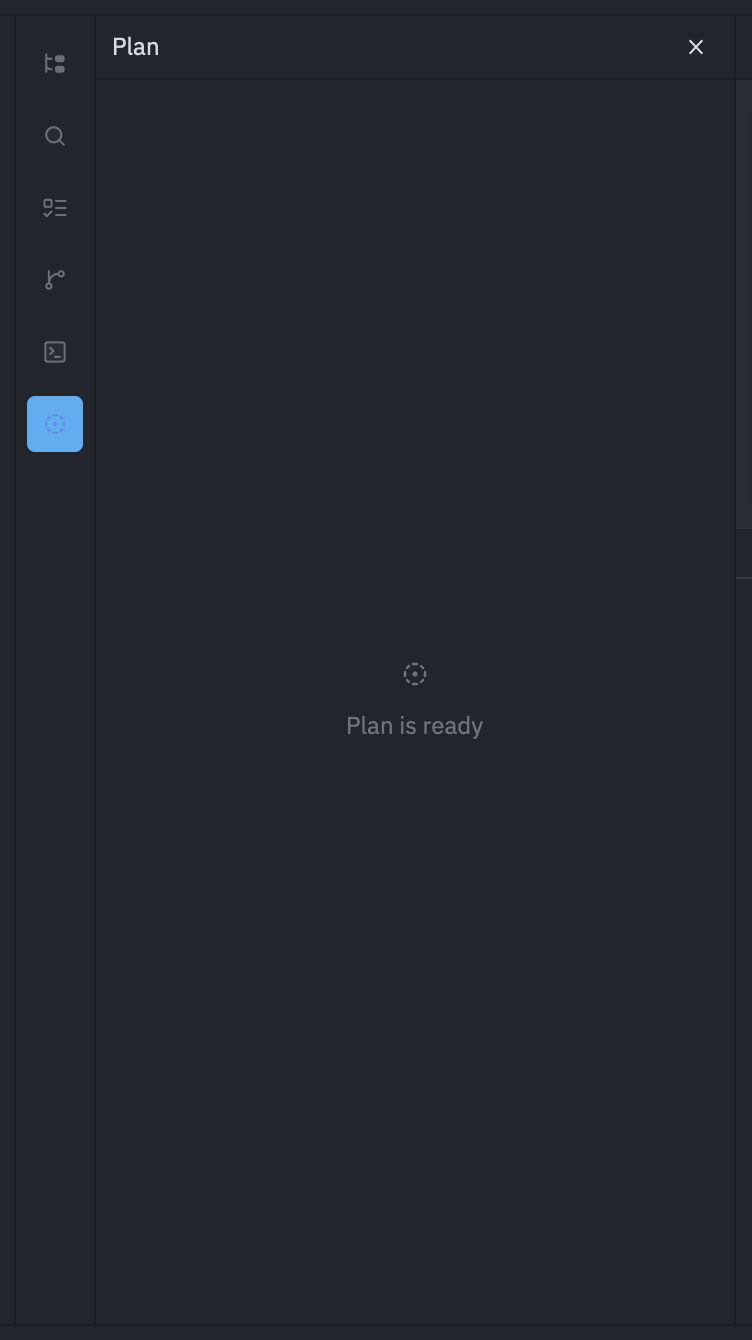
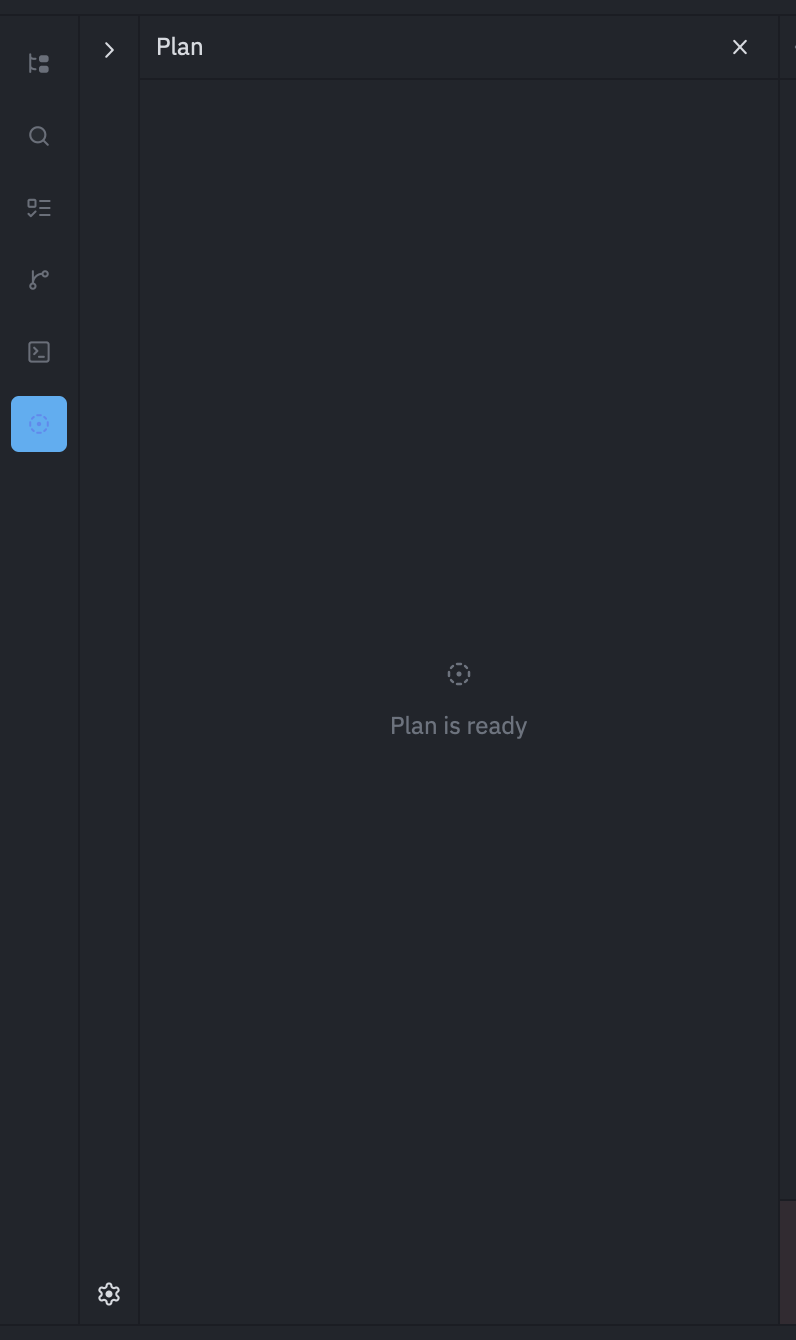
Put the activity rail on the window edge and the Omega label flush left
The workbench shell landed with the activity rail rendered between the
threads sidebar and the content column, an icon rail floating in the
middle of the window. Render it first so it hugs the far-left window
edge, with the threads sidebar directly beside it and the dock and
content after.

The sidebar header still reserved the macOS traffic-light safe area
from before OMEGA-DELTA-0157 installed the platform titlebar. The
titlebar spans the window above the header and owns that safe area, so
the reservation had become a wide blank strip in front of the Omega
label with no control in it. Drop it, along with the collapsed rail's
matching top offset, and amend the OMEGA-DELTA-0131 check to require
the padding stays gone.

Regenerate the Metal visual baselines for the workbench, identity,
front-door, route-pin, and executor-disclosure scenes. The Exo-lane
zero-base baselines (omega_zero_base_wide/narrow) need a live Exo
install and will pick up the new layout on the next Exo visual proof.

diff --git a/crates/agent_ui/src/agent_panel.rs b/crates/agent_ui/src/agent_panel.rs
@@ -3644,14 +3644,13 @@ impl AgentPanel {
     fn render_sidebar(
         &self,
         layout: omega_sidebar::Layout,
-        window: &Window,
+        _window: &Window,
         cx: &mut Context<Self>,
     ) -> Option<AnyElement> {
         if !omega_zero_base::is_active() && !self.workbench_shell_enabled {
             return None;
         }
 
-        let traffic_lights = cfg!(target_os = "macos") && !window.is_fullscreen();
         let (background, border) = {
             let colors = cx.theme().colors();
             (colors.panel_background, colors.border)
@@ -3674,8 +3673,7 @@ impl AgentPanel {
                 column
                     .id("omega-sidebar-rail")
                     .items_center()
-                    .when(traffic_lights, |this| this.pt(Tab::container_height(cx)))
-                    .when(!traffic_lights, |this| this.pt_1p5())
+                    .pt_1p5()
                     .child(
                         IconButton::new("expand-omega-sidebar", IconName::ChevronRight)
                             .icon_size(IconSize::Small)
@@ -3726,9 +3724,6 @@ impl AgentPanel {
                         .h(Tab::container_height(cx))
                         .flex_shrink_0()
                         .px_2()
-                        .when(traffic_lights, |this| {
-                            this.pl(px(ui::utils::TRAFFIC_LIGHT_PADDING))
-                        })
                         .justify_between()
                         .bg(cx.theme().colors().tab_bar_background)
                         .border_b_1()
@@ -9815,8 +9810,11 @@ impl Render for AgentPanel {
                         this.focus_thread_transcript(window, cx);
                     },
                 ))
-                .children(self.render_sidebar(layout.sidebar, window, cx))
+                // The activity rail hugs the window's left edge, with the
+                // threads sidebar beside it and the dock and content after —
+                // an icon rail floating between two panels reads as broken.
                 .child(self.render_activity_rail(window, cx))
+                .children(self.render_sidebar(layout.sidebar, window, cx))
                 .children(self.render_work_surface_dock(layout, window, cx))
                 .child(v_flex().flex_1().min_w_0().h_full().child(content))
                 .into_any_element()

diff --git a/crates/omega_deltas/src/omega_deltas.rs b/crates/omega_deltas/src/omega_deltas.rs
@@ -18284,10 +18284,13 @@ mod tests {
              toolbar's `border` right next to it."
         );
         assert!(
-            sidebar_header.contains("ui::utils::TRAFFIC_LIGHT_PADDING"),
-            "OMEGA-DELTA-0131: the sidebar header no longer reserves the macOS \
-             traffic-light safe area, so its Omega label is hidden behind the \
-             close, minimize and zoom controls."
+            !sidebar_header.contains("TRAFFIC_LIGHT_PADDING"),
+            "OMEGA-DELTA-0131: the sidebar header reserves the macOS \
+             traffic-light safe area again. `OMEGA-DELTA-0157` installed the \
+             platform titlebar, which spans the window above this header and \
+             owns that safe area, so padding the header too pushes the Omega \
+             label into the middle of the sidebar for no control that is \
+             actually there."
         );
     }
 

diff --git a/OMEGA_DELTAS.md b/OMEGA_DELTAS.md
@@ -6271,10 +6271,14 @@ for that stretch is three `OMEGA-DELTA-0115: a person chose …` lines, each
 followed a second later by an ACP connection and by nothing else — no
 `OMEGA-DELTA-0095` attach, no Exo lane, because the router never ran.
 
-The sidebar header is part of the same truthful labeling contract. On macOS it
-reserves the platform traffic-light safe area before drawing **Omega**, rather
-than placing the label behind the close, minimize and zoom controls. When the
-sidebar is collapsed, its expand control starts below that title-bar row.
+The sidebar header is part of the same truthful labeling contract. It used to
+reserve the macOS traffic-light safe area before drawing **Omega**, because at
+the time nothing else stood between the header and the window controls. Then
+`OMEGA-DELTA-0157` installed the platform titlebar, which spans the window
+above this header and owns that safe area, so the reservation became a wide
+blank strip in front of the label with no control in it. The header now draws
+**Omega** flush left with the same padding as the rows under it, and the
+collapsed rail's expand control starts at the top of the column.
 
 **So in zero base a new thread is built on Omega's router and nothing else.**
 The router implements all four executors; sitting directly on one of them is
